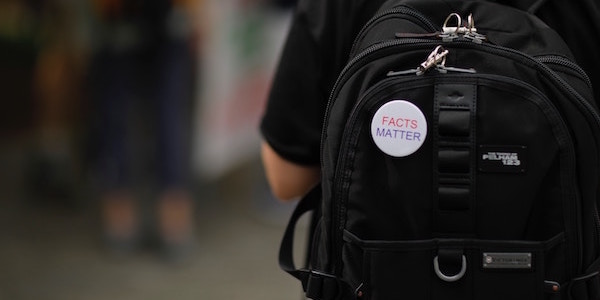
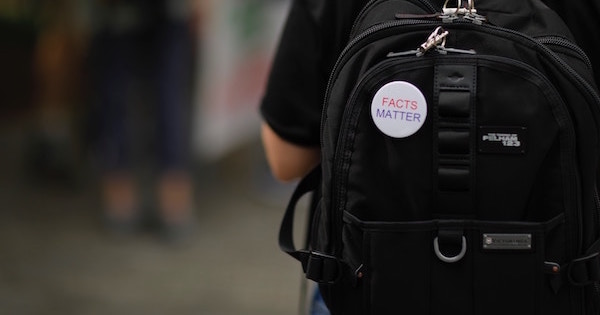
Update.

diff --git a/3/index.html b/3/index.html
@@ -12,7 +12,8 @@
     <meta property="og:url"           content="https://www.bookofmeta.com/3/" />
     <meta property="og:type"          content="article" />
     <meta property="og:title"         content="There are no facts" />
-    <meta property="og:image"         content="https://www.bookofmeta.com/assets/img/facts-matter-pin.jpg" />
+    <meta property="og:image"         content="https://www.bookofmeta.com/assets/img/facts-matter-pin_l.jpg" />
+    <meta property="og:description"   content="" />
 
 
     <meta name="description" content="">
